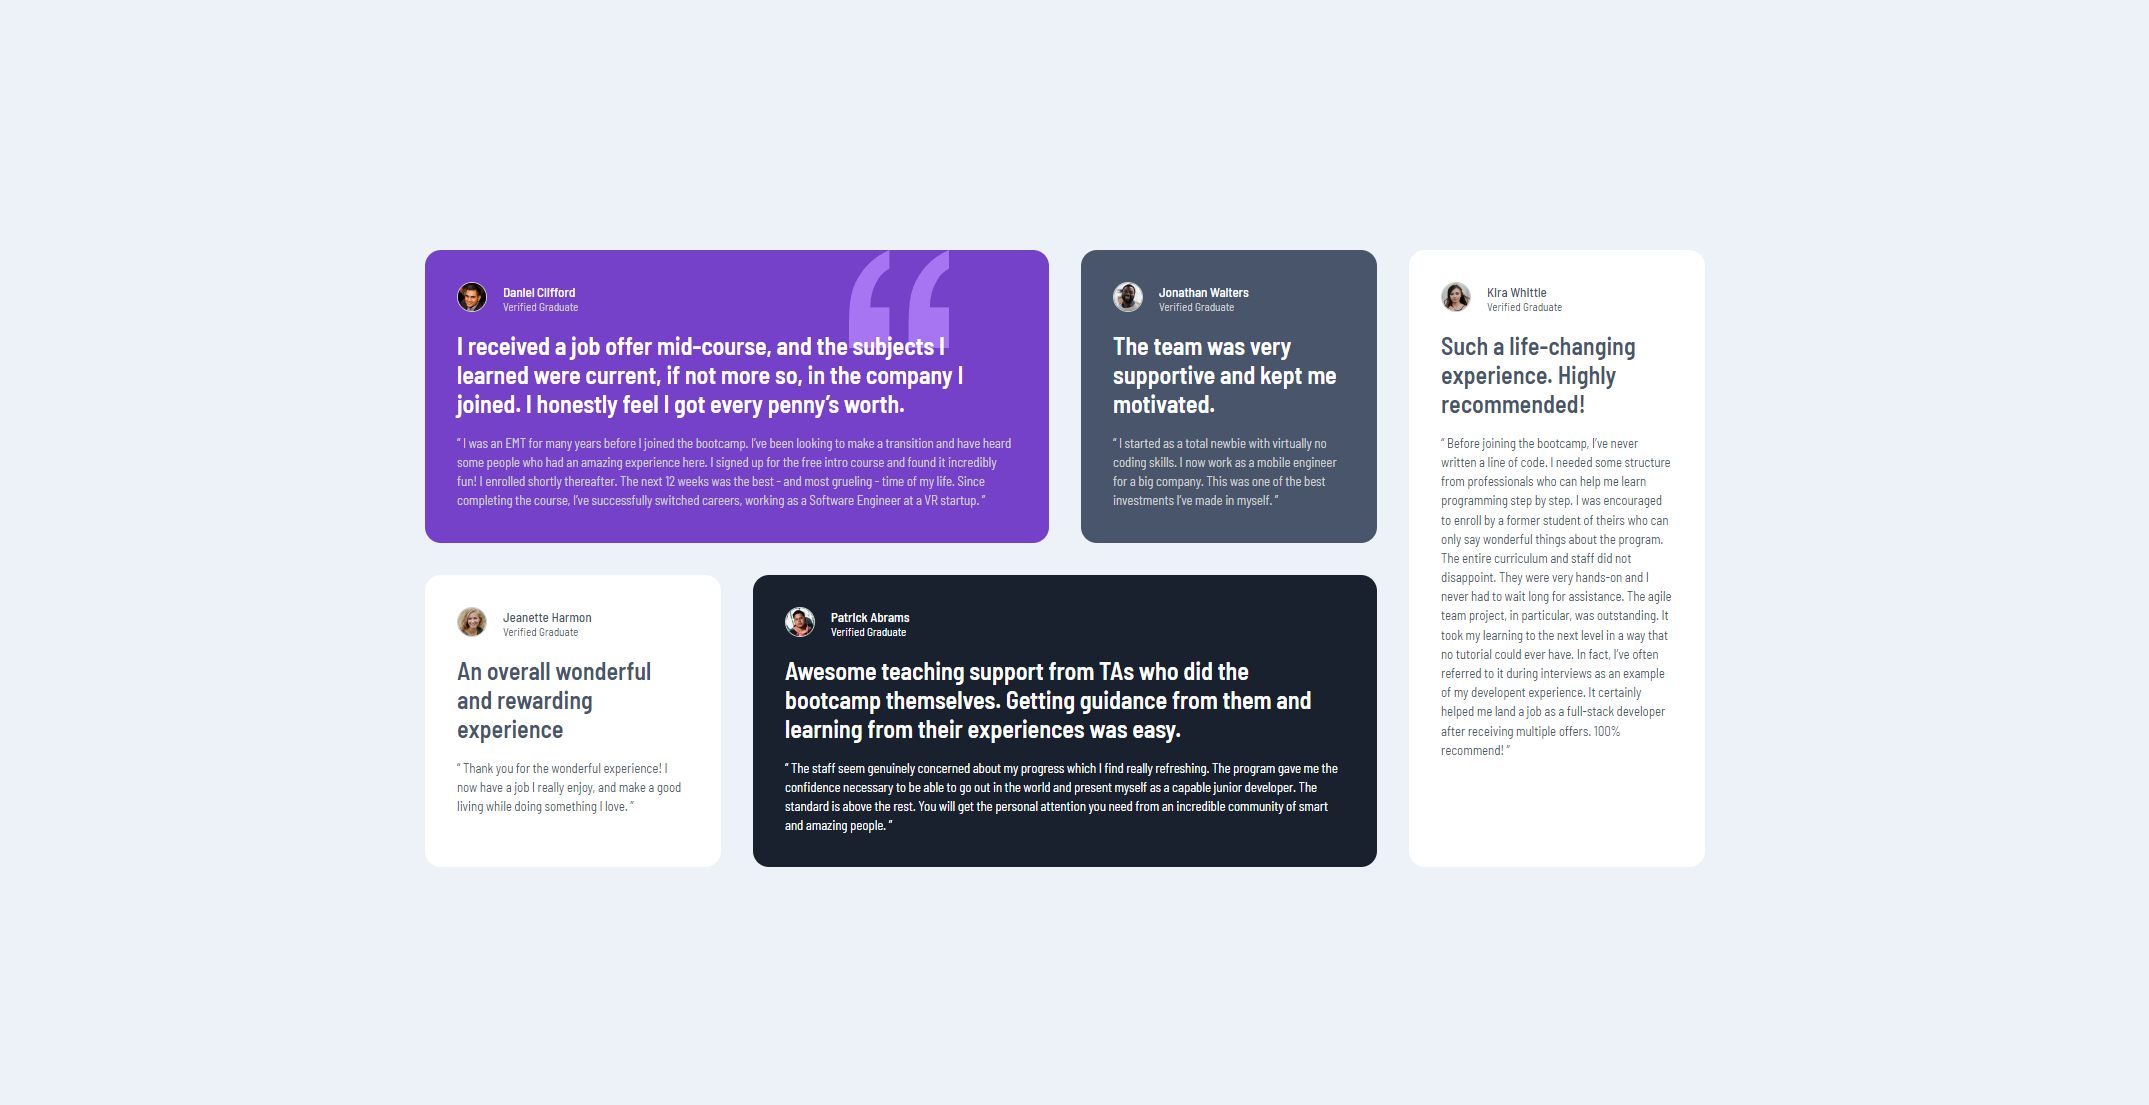
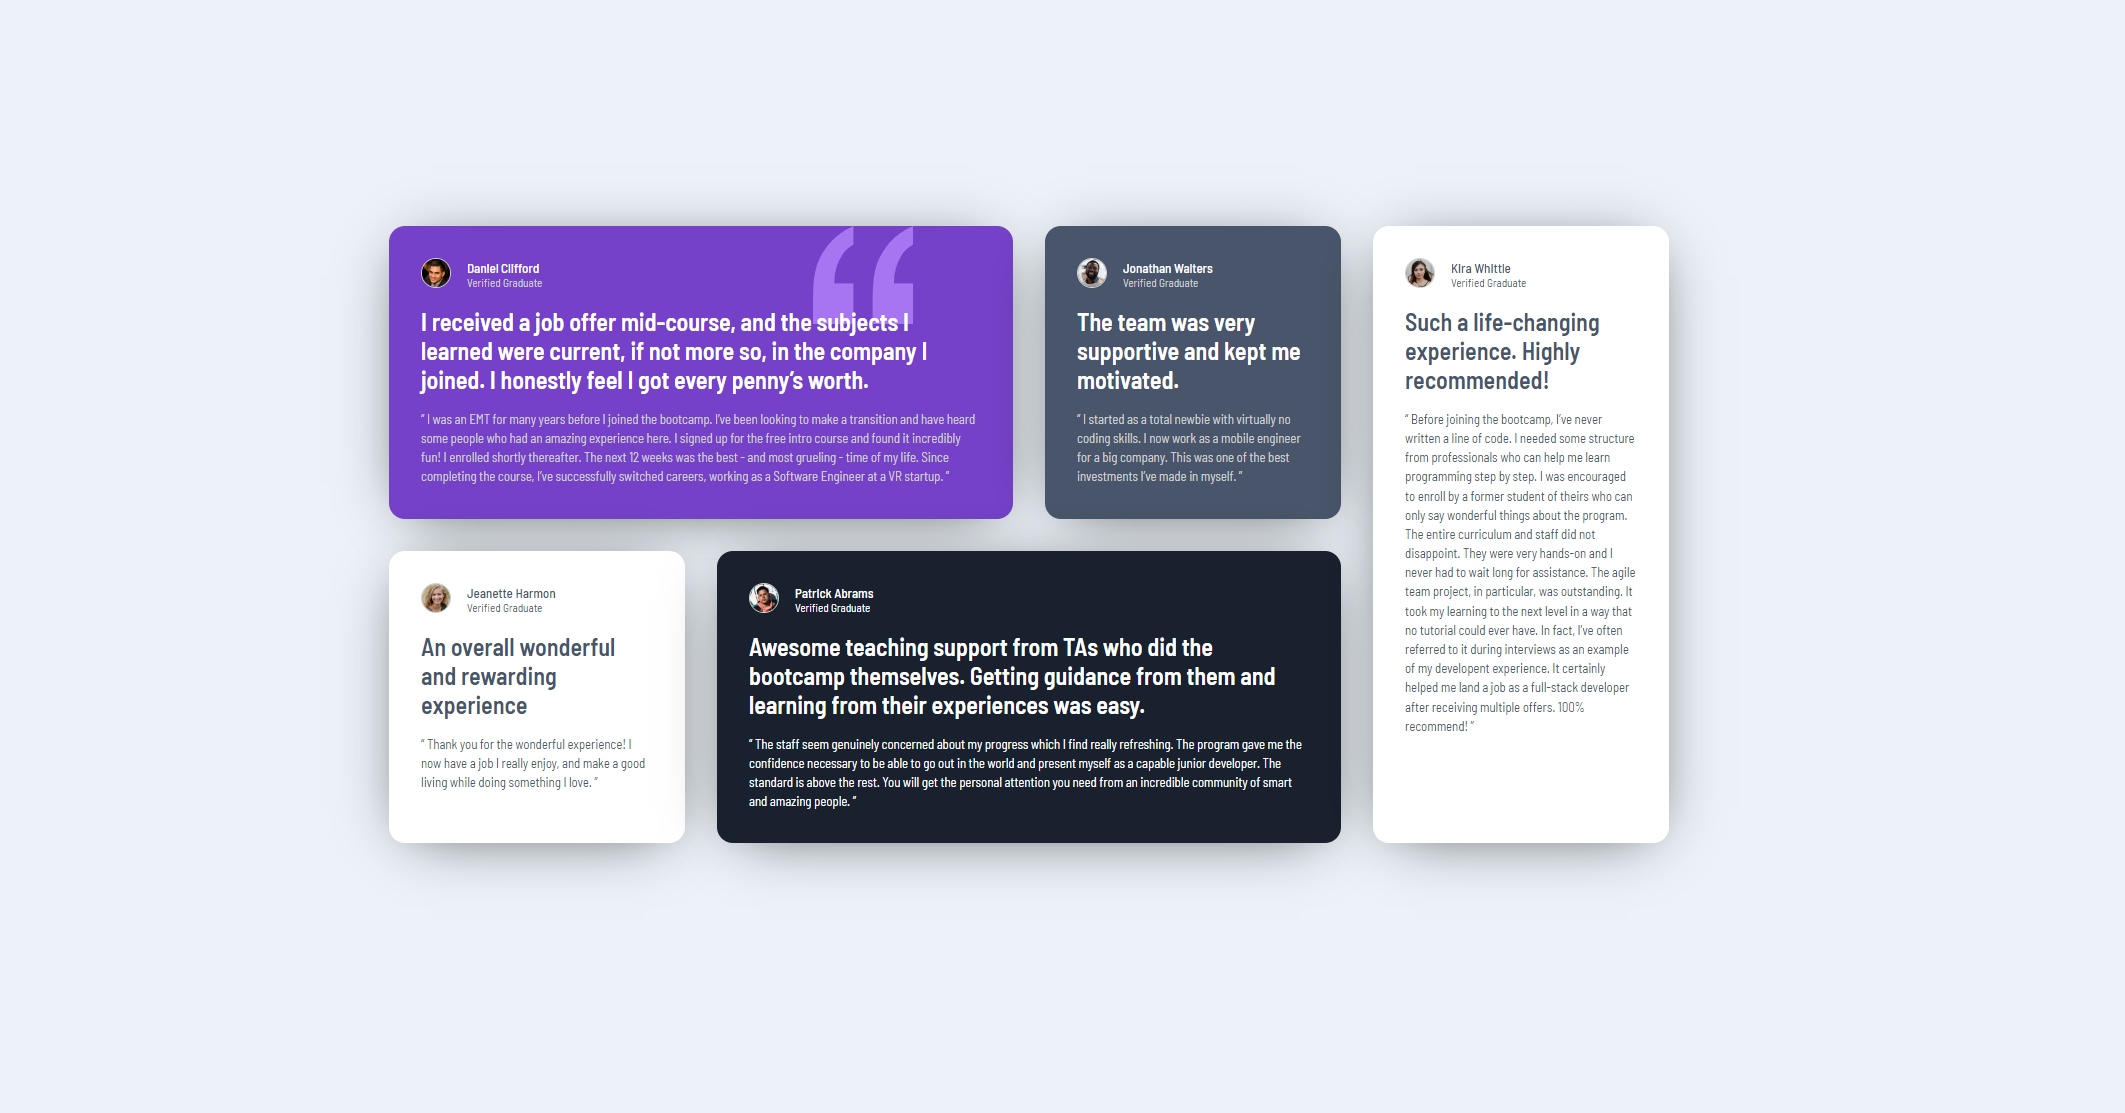
Screenshot

Changed region(s): [[0.1553, 0.1846, 0.8075, 0.8]]

diff --git a/src/container/testemonial.css b/src/container/testemonial.css
@@ -15,7 +15,8 @@
     padding: 2rem;
     display: flex;
     flex-direction: column;
-    gap: 1rem;
+    gap: 1rem;  
+    box-shadow: 0px 7px 63px -21px rgba(0,0,0,0.75);
 }
 
 .avatar{
@@ -91,8 +92,6 @@ img{
     grid-area: item5;
     color: var(--Very-dark-grayish-blue);
 }
-
-
 
 
 
